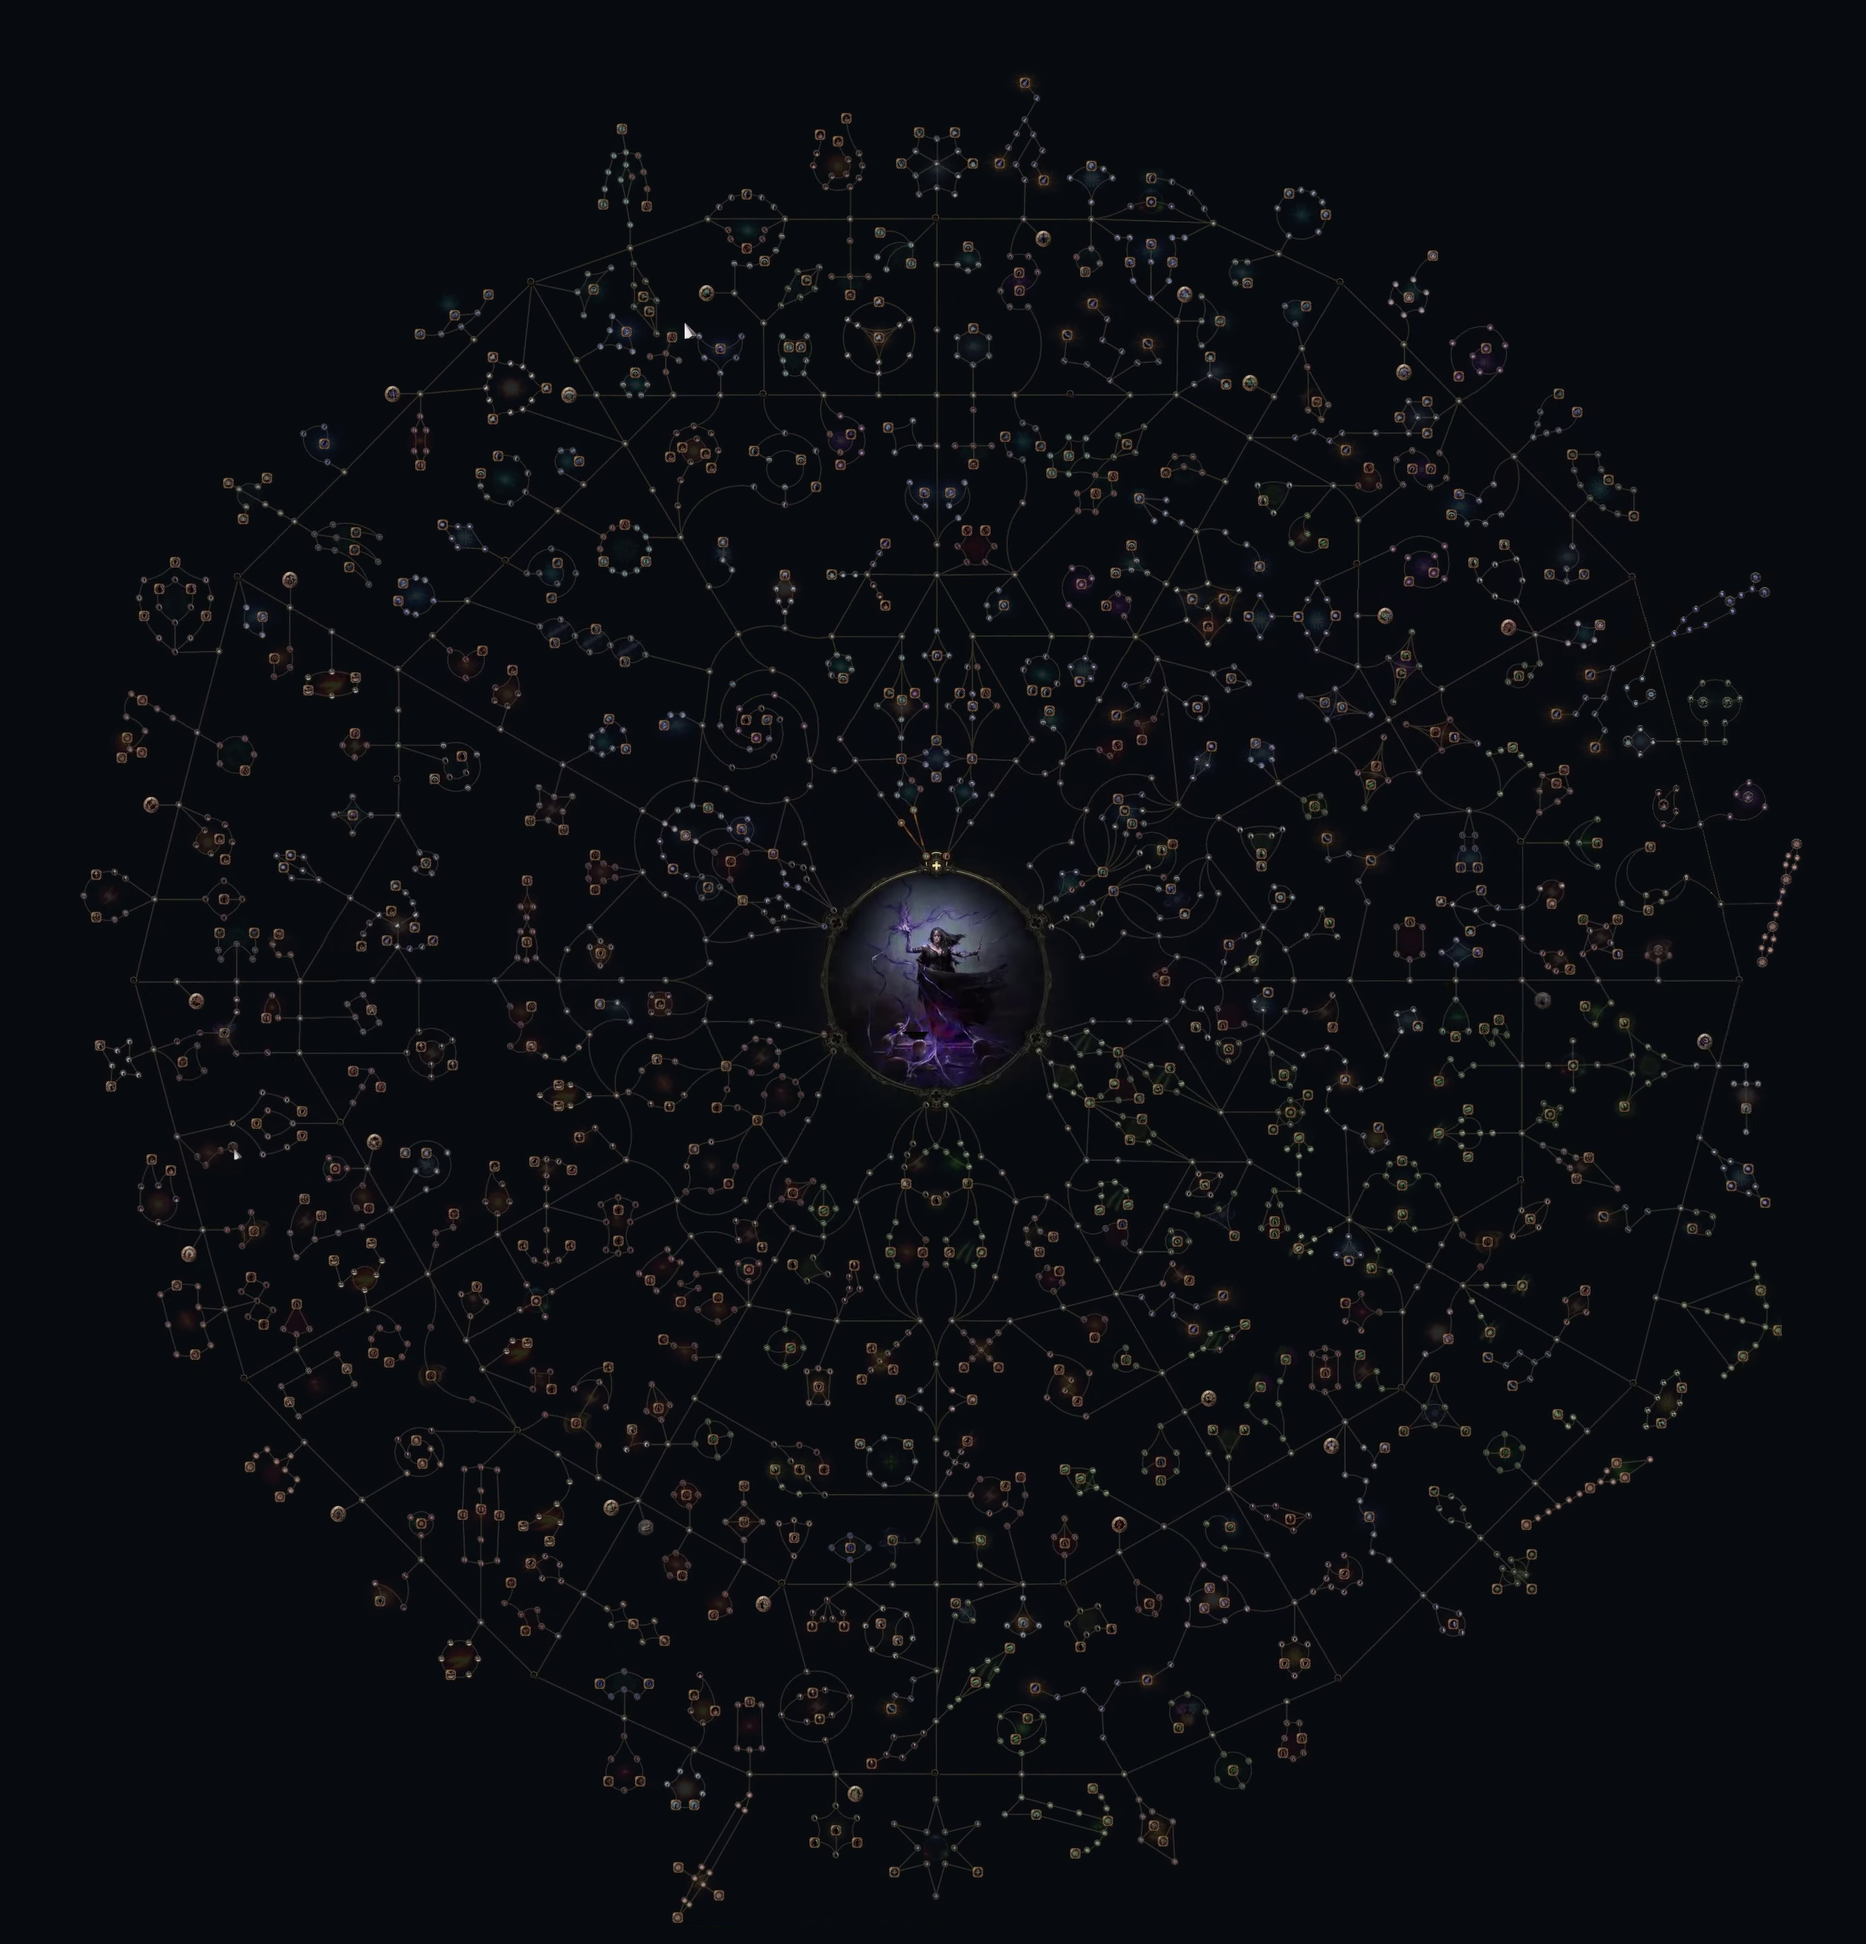
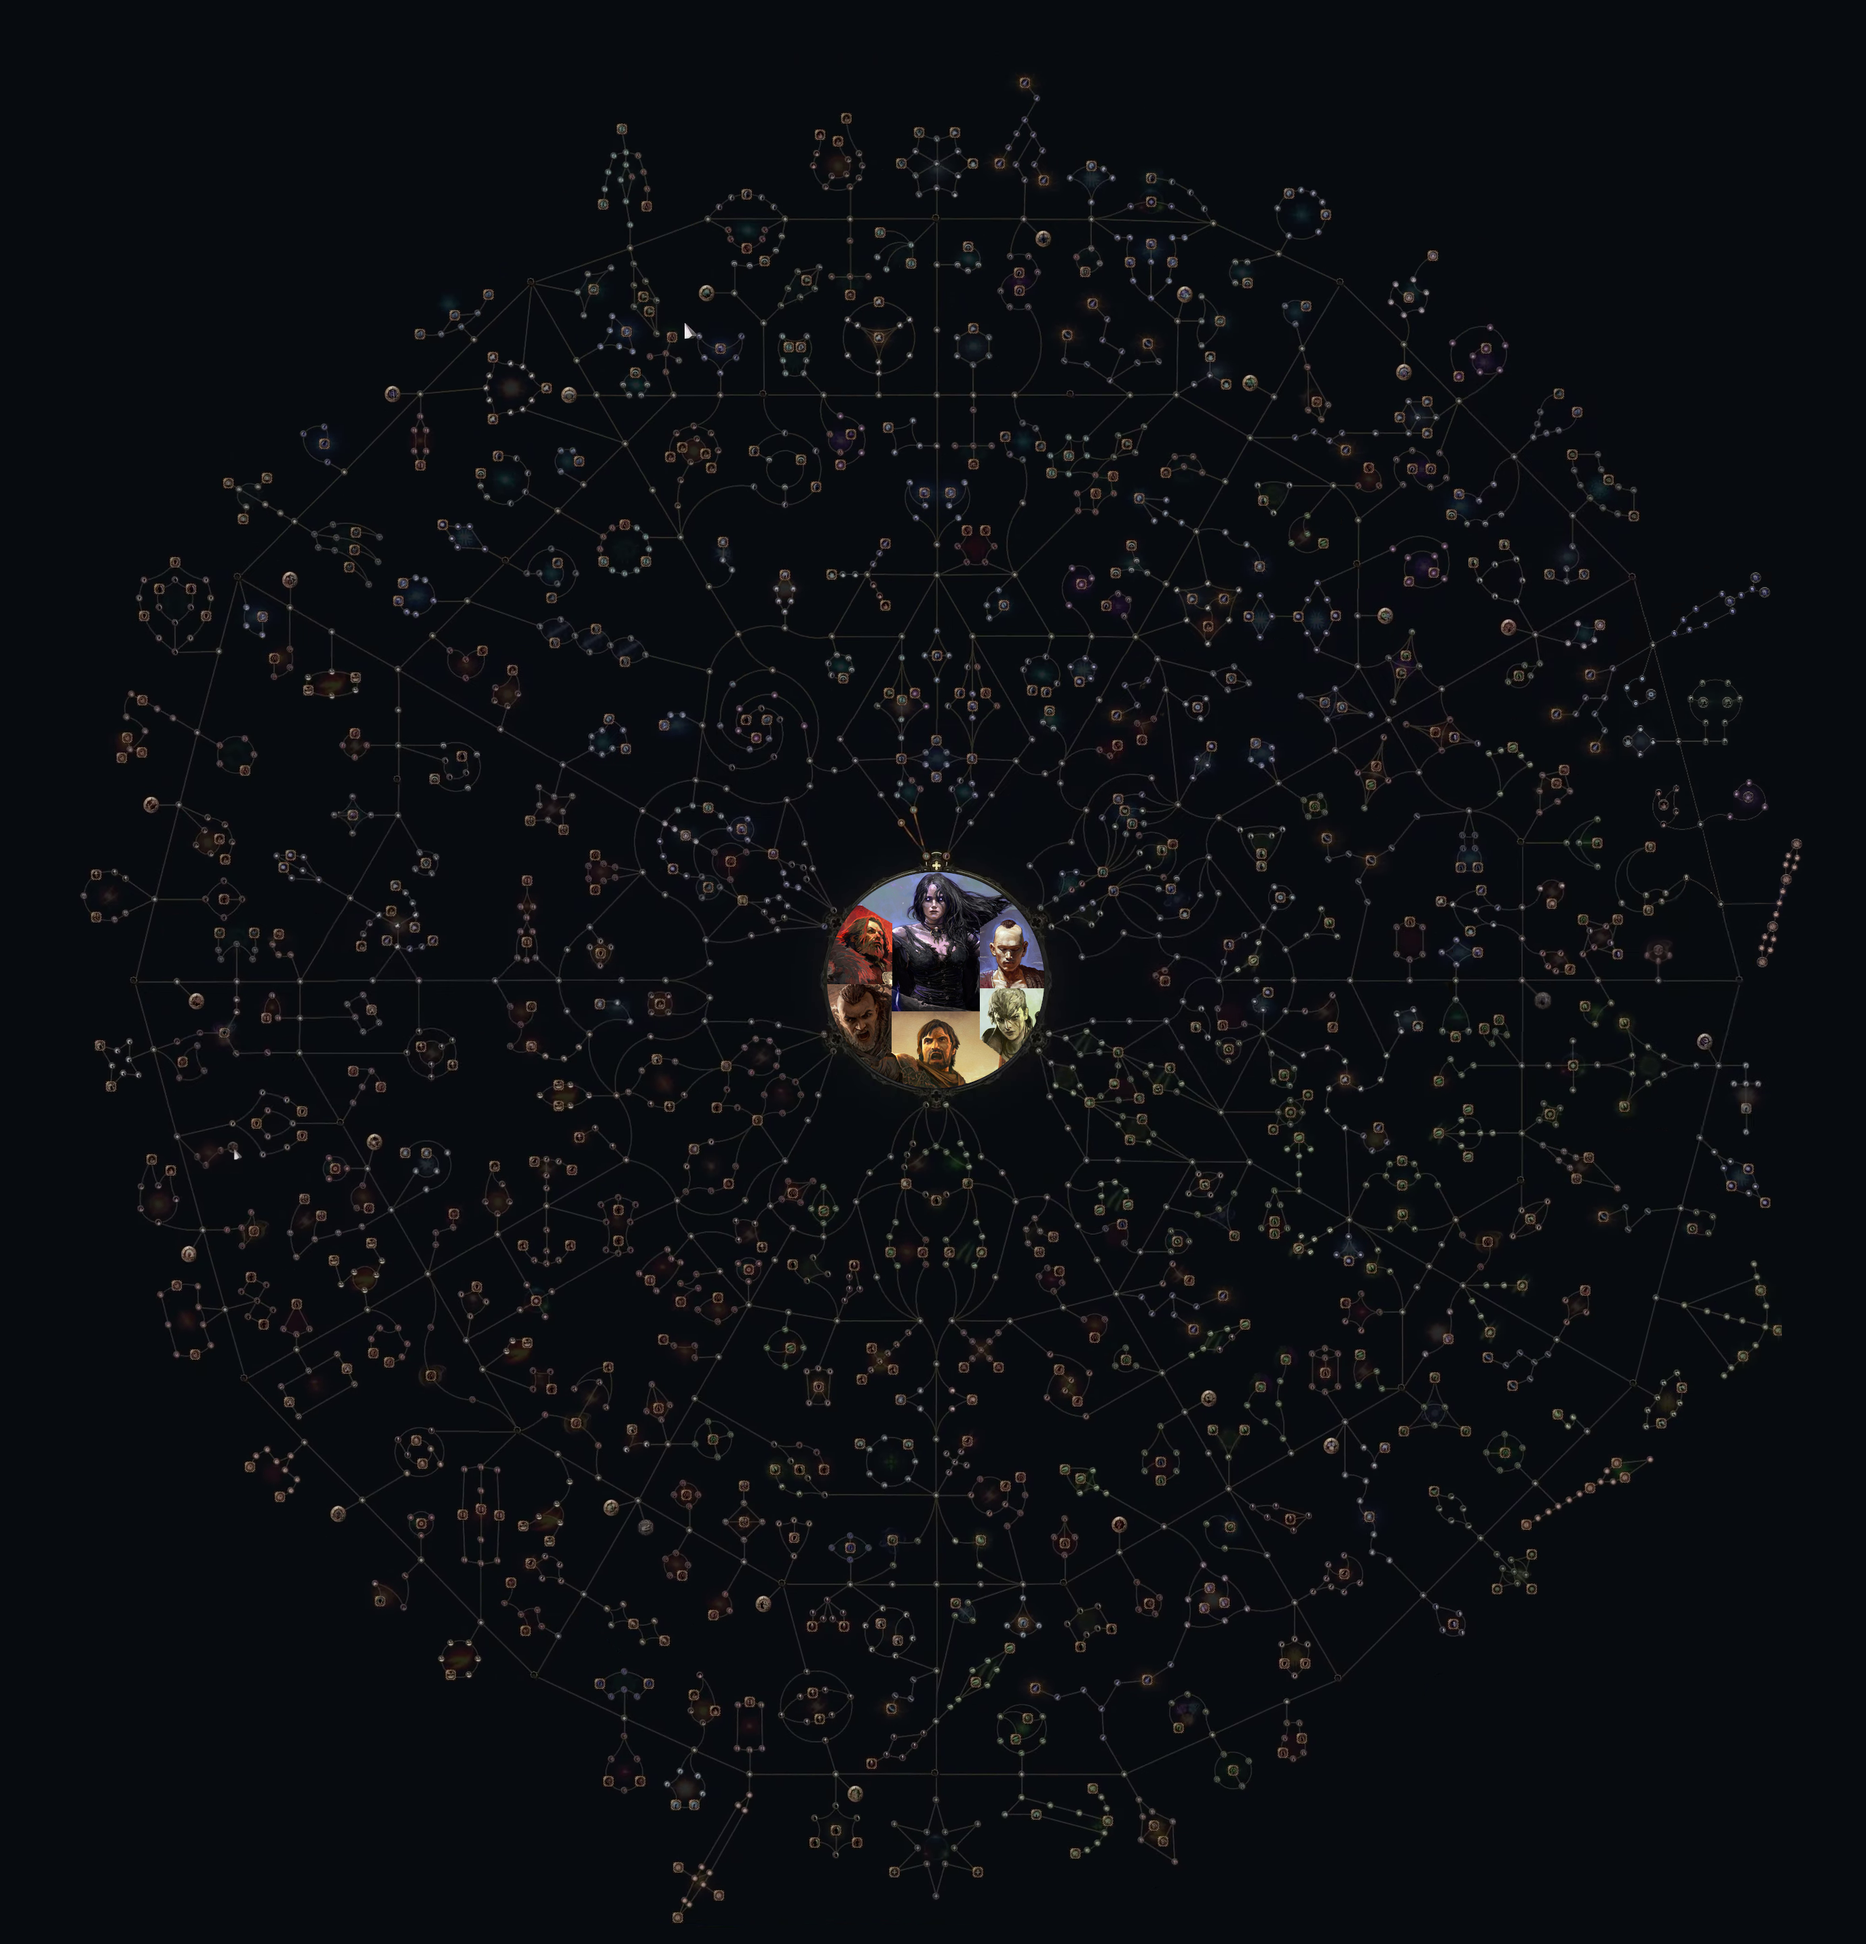
feat: reduce the size of small nodes, fix merge and put back the center image

Changed region(s): [[0.4327, 0.4351, 0.5564, 0.5594]]

diff --git a/src/routes/+page.svelte b/src/routes/+page.svelte
@@ -520,10 +520,16 @@
 									class:highlighted-notable={highlightNotables && node.id.startsWith('N')}
 									class:highlighted-small={highlightSmalls && node.id.startsWith('S')}
 									style="
-								  width: {(baseNodeSize + node.id.startsWith('K') * 4) * scale}px;
-								  height: {(baseNodeSize + node.id.startsWith('K') * 4) * scale}px;
-								  left: {node.x * imageEl.naturalWidth * scale - (baseNodeSize * scale) / 2}px;
-								  top: {node.y * imageEl.naturalHeight * scale - (baseNodeSize * scale) / 2}px;
+								  width: {(baseNodeSize + node.id.startsWith('K') * 4 - node.id.startsWith('S') * 10) * scale}px;
+								  height: {(baseNodeSize + node.id.startsWith('K') * 4 - node.id.startsWith('S') * 10) * scale}px;
+								  left: {node.x * imageEl.naturalWidth * scale -
+										((baseNodeSize + node.id.startsWith('K') * 4 - node.id.startsWith('S') * 10) *
+											scale) /
+											2}px;
+								  top: {node.y * imageEl.naturalHeight * scale -
+										((baseNodeSize + node.id.startsWith('K') * 4 - node.id.startsWith('S') * 10) *
+											scale) /
+											2}px;
 							  "
 									onmousedown={(event) => event.stopPropagation()}
 									onclick={() => toggleNodeSelection(node)}
